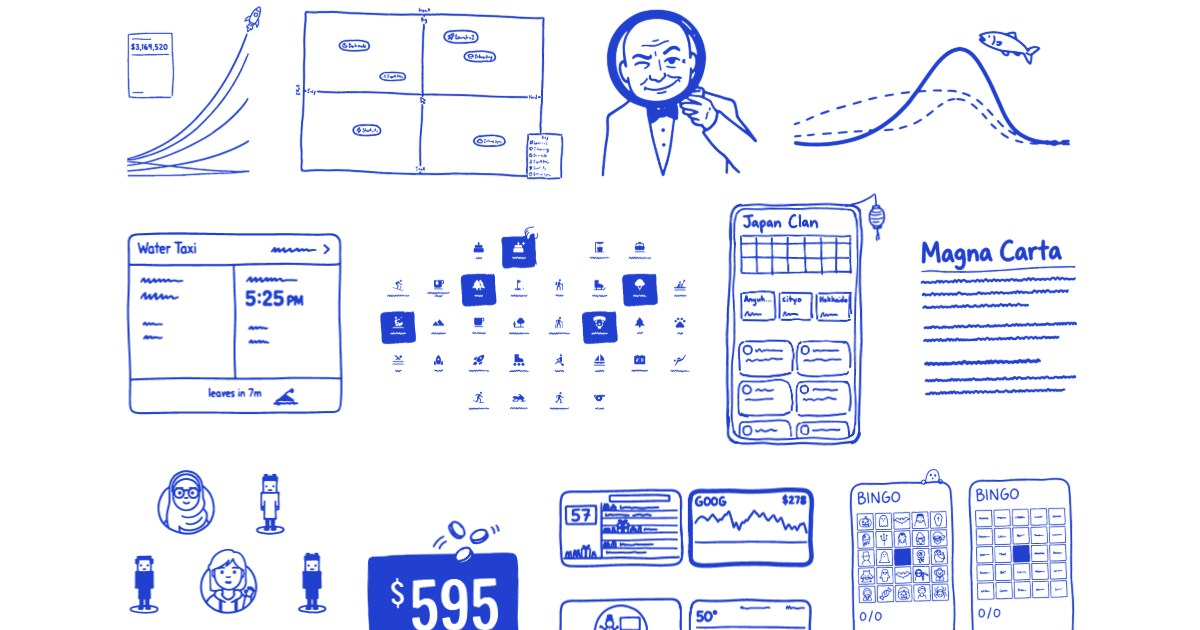
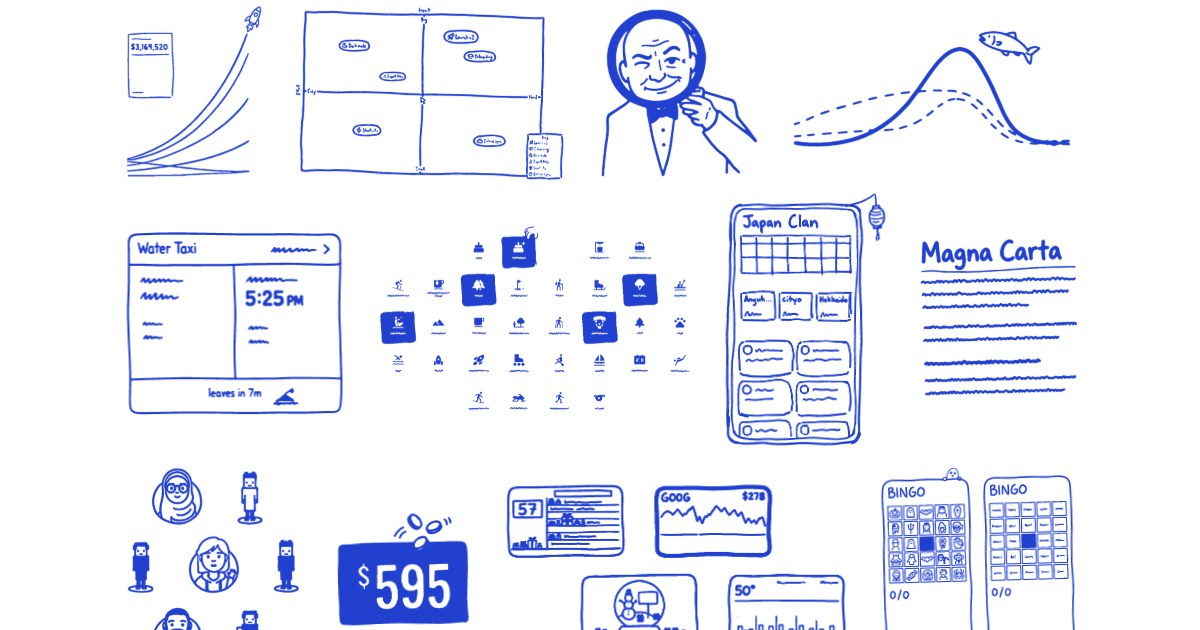
Some things I've made
Built from a private repo by scripts/publish.py. Please don't edit here: each publish replaces this.

Changed region(s): [[0.0925, 0.7238, 0.8942, 1.0]]

diff --git a/assets/sketch/lab/collage.js b/assets/sketch/lab/collage.js
@@ -1,1 +1,1 @@
-window.SKETCH_COLLAGE={"page":0.9118,"solved":true,"items":{"batchicons":{"vid":"H17","box":[16,127,1138,683],"tilt":0,"tier":"anchor","weight":2.3,"hasTitle":false,"cx":43.64,"cy":34.02,"w":30.85,"hit":"M71.2 102.4 28.8 102.4 4.4 81.7 3.3 79.9 -1.4 61.9 -1.7 47.1 0.8 36.0 3.3 29.1 6.0 25.7 30.7 6.1 48.1 -2.9 50.6 -2.9 80.1 4.5 85.4 6.6 99.5 27.5 100.5 36.0 101.4 78.3 100.0 81.7Z","z":3},"bingo":{"vid":"H17","box":[409,42,791,814],"tilt":-1.5,"tier":"hero","weight":1.316,"hasTitle":false,"cx":85.38,"cy":59.72,"w":22.22,"hit":"M76.2 101.9 5.7 101.9 2.2 100.6 -1.1 97.4 -2.0 94.9 -2.4 82.5 -2.0 9.8 -1.1 7.3 2.2 4.1 7.5 2.4 36.6 -2.4 41.4 -2.4 94.3 2.8 97.8 4.1 100.7 6.8 102.0 10.7 102.0 93.6 100.2 97.9 96.9 100.6 92.1 101.5Z","z":2},"canvas":{"vid":"H17","box":[177,115,646,259],"tilt":0,"tier":"mid","weight":1.016,"hasTitle":false,"cx":26.01,"cy":80.92,"w":20.32,"hit":"M66.8 105.4 60.6 103.0 1.0 62.0 -1.7 55.4 -2.6 42.2 -2.6 8.4 -1.7 2.4 0.5 -3.0 2.9 -5.4 94.2 -6.6 98.6 -4.2 101.2 2.4 102.2 9.6 101.7 54.2 79.3 100.6Z","z":14},"firecalc":{"vid":"H06","box":[558,332,606,386],"tilt":0,"tier":"mid","weight":1.003,"hasTitle":false,"cx":89.55,"cy":81.32,"w":13.86,"hit":"M97.9 106.1 0.0 106.1 -4.6 101.1 -5.3 93.3 -0.7 82.8 92.3 -7.2 97.2 -8.3 101.8 -3.3 104.6 10.0 103.9 96.7 103.2 100.0Z","z":15},"fishreports":{"vid":"H17","box":[99,248,690,299],"tilt":0,"tier":"mid","weight":1.19,"hasTitle":false,"cx":82.47,"cy":11.59,"w":28.02,"hit":"M55.1 102.8 2.4 102.0 0.7 100.4 -0.9 96.8 -1.2 76.6 -0.9 74.2 1.0 70.6 67.6 -2.8 79.4 -2.8 88.5 10.1 90.1 13.7 91.5 23.4 100.9 92.7 100.5 97.6 97.9 102.0Z","z":13},"folio":{"vid":"H06","box":[304,0,650,805],"tilt":0,"tier":"mid","weight":1.197,"hasTitle":false,"cx":10.32,"cy":11.95,"w":13.62,"hit":"M42.4 103.2 1.4 103.2 -3.2 100.6 -4.0 22.1 -3.2 14.5 0.0 11.9 11.5 9.6 94.2 -4.4 100.0 -3.8 104.0 0.6 104.0 7.6 96.0 91.9 94.6 98.3 92.1 100.3 84.9 101.5Z","z":5},"hanstaxi":{"vid":"H17","box":[295,176,611,526],"tilt":0,"tier":"mid","weight":1.187,"hasTitle":false,"cx":14.4,"cy":34.53,"w":21.77,"hit":"M91.5 101.3 4.5 101.3 1.3 99.7 -0.2 97.9 -1.6 93.8 -2.0 82.3 -2.5 21.4 -2.0 5.2 -1.1 2.1 1.8 -0.8 9.0 -2.3 94.6 -1.8 97.8 -0.3 99.8 2.1 101.1 6.2 101.6 92.2 100.2 96.9 97.3 100.3Z","z":8},"japanclan":{"vid":"H07","box":[353,7,539,851],"tilt":1,"tier":"mid","weight":1.005,"hasTitle":false,"cx":70.03,"cy":34.11,"w":16.06,"hit":"M54.3 101.7 10.4 101.7 3.0 100.2 -0.9 96.9 -2.1 93.1 -3.4 68.3 -3.4 34.4 -2.1 9.7 0.9 5.4 3.7 3.7 8.5 2.5 92.1 -2.1 96.0 -0.4 101.5 6.2 102.7 8.5 102.7 13.1 89.9 95.0 86.6 98.6 84.1 100.2 80.5 101.0Z","z":6},"krakentix":{"vid":"H17","box":[656,35,433,188],"tilt":0,"tier":"hero","weight":1.484,"hasTitle":false,"cx":49.27,"cy":81.24,"w":20.33,"hit":"M51.9 102.8 3.4 102.8 1.0 100.6 -0.7 96.7 -1.7 91.1 -1.2 26.7 1.9 20.6 6.2 18.3 84.6 -3.9 96.2 -3.9 98.6 -1.7 100.2 2.2 101.2 7.8 101.2 21.1 89.2 95.6 87.0 100.6Z","z":17},"loupe":{"vid":"H17","box":[485,116,541,578],"tilt":-2,"tier":"mid","weight":1.184,"hasTitle":false,"cx":57.64,"cy":11.95,"w":15.79,"hit":"M86.3 102.6 10.6 102.0 0.6 101.5 -3.4 98.8 -4.0 87.2 1.6 24.4 4.0 16.9 8.4 9.9 18.6 1.5 24.8 -1.5 31.7 -3.2 46.0 -2.6 51.6 -0.9 59.0 3.2 68.0 12.8 102.2 77.9 101.6 82.6 90.4 100.0Z","z":10},"made":{"vid":"H17","box":[445,148,310,267],"tilt":-1,"tier":"mid","weight":1.2,"hasTitle":false,"cx":34.64,"cy":60.05,"w":15.93,"hit":"M89.6 101.1 6.7 101.1 3.1 99.6 -0.3 95.0 -1.5 84.3 -1.5 35.0 -0.3 27.9 3.1 23.9 55.8 -1.8 61.3 -1.8 85.9 2.5 89.3 6.4 99.7 27.1 100.9 31.4 100.9 93.6 100.3 95.7 96.9 99.6Z","z":16},"md":{"vid":"H17","box":[24,219,458,469],"tilt":-1.5,"tier":"mid","weight":1.194,"hasTitle":false,"cx":88.73,"cy":33.91,"w":15.5,"hit":"M89.9 101.5 3.2 101.5 -1.6 98.1 -2.8 61.7 -2.8 20.4 -1.6 3.7 -0.3 0.0 1.9 -2.2 81.0 -2.2 91.1 2.8 101.6 14.2 104.7 19.1 104.7 63.6 103.5 88.9 102.8 90.7 93.0 100.3Z","z":11},"peeps":{"vid":"H17","box":[377,201,445,503],"tilt":0,"tier":"hero","weight":1.3,"hasTitle":false,"cx":13.63,"cy":59.72,"w":20.23,"hit":"M52.2 101.1 26.1 101.1 17.9 97.6 13.3 92.7 -1.7 62.4 0.7 39.7 9.9 18.8 14.3 9.8 19.1 3.4 22.7 0.2 27.1 -1.5 67.6 -0.2 74.9 0.6 77.5 3.4 98.3 38.5 101.2 62.4 80.4 97.4 77.8 99.8 74.9 100.6Z","z":12},"quadrant":{"vid":"H17","box":[80,115,1104,696],"tilt":1.5,"tier":"hero","weight":1.5,"hasTitle":false,"cx":33.44,"cy":11.95,"w":26.75,"hit":"M97.1 103.2 4.4 102.6 2.2 101.5 0.2 97.1 -2.4 51.2 -0.5 15.1 0.5 3.5 2.6 0.3 3.6 -0.3 42.0 -3.8 51.8 -3.8 86.9 -0.9 92.0 0.3 93.6 2.9 94.3 7.0 102.0 73.8 101.6 97.7 99.6 102.0Z","z":1},"score":{"vid":"H17","box":[132,66,533,770],"tilt":-2,"tier":"mid","weight":1.011,"hasTitle":false,"cx":8.22,"cy":80.87,"w":9.4,"hit":"M22.9 104.7 15.6 104.7 9.4 103.2 2.6 98.6 0.5 93.5 -7.8 15.1 -6.8 4.3 0.0 -1.1 5.2 -2.5 57.3 -5.4 66.7 -5.4 95.8 0.4 100.5 3.6 105.7 10.8 106.8 16.5 89.1 94.2 82.3 99.6 77.1 101.1Z","z":7},"trmnl":{"vid":"H17","box":[582,93,591,445],"tilt":0,"tier":"mid","weight":1.008,"hasTitle":false,"cx":58.43,"cy":59.77,"w":25.81,"hit":"M93.9 101.3 5.3 101.3 1.9 99.7 -0.2 97.0 -1.3 91.5 -1.3 8.0 0.2 3.0 1.5 1.3 4.2 -0.3 24.6 -1.3 94.7 -1.8 97.7 -0.3 100.2 3.0 100.9 6.0 100.6 94.5 99.8 97.0 97.7 99.7Z","z":9},"moods":{"tier":"mid","weight":1.197,"hasTitle":false,"vid":"H17","box":[105,159,990,543],"cx":71.03,"cy":81.4,"w":17.33,"tilt":0,"hit":"M93.2 105.7 6.2 105.7 1.7 102.6 -2.0 95.9 -3.7 80.4 -3.7 11.3 -2.0 3.1 1.1 -2.6 5.1 -5.7 20.9 -6.7 89.8 -6.7 98.3 -2.6 100.8 2.1 103.1 12.4 103.1 88.7 102.0 94.8 97.7 102.6Z","z":4}},"mobile":{"page":5.6318,"items":{"batchicons":{"cx":50.09,"cy":179.16,"w":82.84,"tilt":3.7,"z":1},"bingo":{"cx":27.89,"cy":364.77,"w":40.75,"tilt":-3.3,"z":4},"canvas":{"cx":47.69,"cy":461.79,"w":76.53,"tilt":-1.3,"z":11},"firecalc":{"cx":57.1,"cy":541.88,"w":66.87,"tilt":-2.8,"z":16},"fishreports":{"cx":53.43,"cy":130.75,"w":80.33,"tilt":-1.4,"z":8},"folio":{"cx":22.76,"cy":26.63,"w":33.52,"tilt":1.7,"z":6},"hanstaxi":{"cx":25.19,"cy":72.11,"w":43.16,"tilt":-1,"z":9},"japanclan":{"cx":76.55,"cy":246.54,"w":33.52,"tilt":2.9,"z":15},"krakentix":{"cx":68.36,"cy":411.03,"w":49.7,"tilt":-1.3,"z":5},"loupe":{"cx":73.97,"cy":83.51,"w":44.34,"tilt":2.6,"z":10},"made":{"cx":25.9,"cy":296.96,"w":41.38,"tilt":-2.2,"z":14},"md":{"cx":28.32,"cy":230.42,"w":39.56,"tilt":-2.3,"z":12},"moods":{"cx":55.71,"cy":498.86,"w":56.81,"tilt":3.6,"z":7},"peeps":{"cx":73.78,"cy":312.6,"w":44.32,"tilt":2,"z":3},"quadrant":{"cx":69.67,"cy":15.84,"w":50.24,"tilt":-3,"z":2},"score":{"cx":21.72,"cy":416.09,"w":33.52,"tilt":3.1,"z":13},"trmnl":{"cx":74.25,"cy":366.04,"w":41.91,"tilt":3,"z":17}}}};
+window.SKETCH_COLLAGE={"page":0.88,"solved":true,"items":{"batchicons":{"vid":"H17","box":[16,127,1138,683],"tilt":0,"tier":"anchor","weight":2.3,"hasTitle":false,"cx":43.64,"cy":34.02,"w":30.85,"hit":"M71.2 102.4 28.8 102.4 4.4 81.7 3.3 79.9 -1.4 61.9 -1.7 47.1 0.8 36.0 3.3 29.1 6.0 25.7 30.7 6.1 48.1 -2.9 50.6 -2.9 80.1 4.5 85.4 6.6 99.5 27.5 100.5 36.0 101.4 78.3 100.0 81.7Z","z":3},"bingo":{"vid":"H17","box":[409,42,791,814],"tilt":-1.5,"tier":"hero","weight":1.316,"hasTitle":false,"cx":86.92,"cy":58.13,"w":19.13,"hit":"M83.7 102.2 4.6 102.2 2.0 101.2 -1.3 98.0 -2.8 94.0 -2.8 10.4 -1.3 6.5 1.5 3.7 5.1 2.2 19.9 -0.2 35.7 -2.7 42.3 -2.7 94.4 2.2 98.5 3.7 100.8 6.0 102.3 9.5 102.8 13.4 102.8 92.5 100.8 98.0 98.0 100.7 95.4 101.7Z","z":2},"canvas":{"vid":"H17","box":[177,115,646,259],"tilt":0,"tier":"mid","weight":1.016,"hasTitle":false,"cx":26.01,"cy":77.74,"w":20.32,"hit":"M66.8 105.4 60.6 103.0 1.0 62.0 -1.7 55.4 -2.6 42.2 -2.6 8.4 -1.7 2.4 0.5 -3.0 2.9 -5.4 94.2 -6.6 98.6 -4.2 101.2 2.4 102.2 9.6 101.7 54.2 79.3 100.6Z","z":14},"firecalc":{"vid":"H06","box":[558,332,606,386],"tilt":0,"tier":"mid","weight":1.003,"hasTitle":false,"cx":89.55,"cy":78.14,"w":13.86,"hit":"M97.9 106.1 0.0 106.1 -4.6 101.1 -5.3 93.3 -0.7 82.8 92.3 -7.2 97.2 -8.3 101.8 -3.3 104.6 10.0 103.9 96.7 103.2 100.0Z","z":15},"fishreports":{"vid":"H17","box":[99,248,690,299],"tilt":0,"tier":"mid","weight":1.19,"hasTitle":false,"cx":82.47,"cy":11.59,"w":28.02,"hit":"M55.1 102.8 2.4 102.0 0.7 100.4 -0.9 96.8 -1.2 76.6 -0.9 74.2 1.0 70.6 67.6 -2.8 79.4 -2.8 88.5 10.1 90.1 13.7 91.5 23.4 100.9 92.7 100.5 97.6 97.9 102.0Z","z":13},"folio":{"vid":"H06","box":[304,0,650,805],"tilt":0,"tier":"mid","weight":1.197,"hasTitle":false,"cx":10.32,"cy":11.95,"w":13.62,"hit":"M42.4 103.2 1.4 103.2 -3.2 100.6 -4.0 22.1 -3.2 14.5 0.0 11.9 11.5 9.6 94.2 -4.4 100.0 -3.8 104.0 0.6 104.0 7.6 96.0 91.9 94.6 98.3 92.1 100.3 84.9 101.5Z","z":5},"hanstaxi":{"vid":"H17","box":[295,176,611,526],"tilt":0,"tier":"mid","weight":1.187,"hasTitle":false,"cx":14.4,"cy":34.53,"w":21.77,"hit":"M91.5 101.3 4.5 101.3 1.3 99.7 -0.2 97.9 -1.6 93.8 -2.0 82.3 -2.5 21.4 -2.0 5.2 -1.1 2.1 1.8 -0.8 9.0 -2.3 94.6 -1.8 97.8 -0.3 99.8 2.1 101.1 6.2 101.6 92.2 100.2 96.9 97.3 100.3Z","z":8},"japanclan":{"vid":"H07","box":[353,7,539,851],"tilt":1,"tier":"mid","weight":1.005,"hasTitle":false,"cx":70.03,"cy":34.11,"w":16.06,"hit":"M54.3 101.7 10.4 101.7 3.0 100.2 -0.9 96.9 -2.1 93.1 -3.4 68.3 -3.4 34.4 -2.1 9.7 0.9 5.4 3.7 3.7 8.5 2.5 92.1 -2.1 96.0 -0.4 101.5 6.2 102.7 8.5 102.7 13.1 89.9 95.0 86.6 98.6 84.1 100.2 80.5 101.0Z","z":6},"krakentix":{"vid":"H17","box":[656,35,433,188],"tilt":0,"tier":"hero","weight":1.484,"hasTitle":false,"cx":49.27,"cy":78.06,"w":20.33,"hit":"M51.9 102.8 3.4 102.8 1.0 100.6 -0.7 96.7 -1.7 91.1 -1.2 26.7 1.9 20.6 6.2 18.3 84.6 -3.9 96.2 -3.9 98.6 -1.7 100.2 2.2 101.2 7.8 101.2 21.1 89.2 95.6 87.0 100.6Z","z":17},"loupe":{"vid":"H17","box":[485,116,541,578],"tilt":-2,"tier":"mid","weight":1.184,"hasTitle":false,"cx":57.64,"cy":11.95,"w":15.79,"hit":"M86.3 102.6 10.6 102.0 0.6 101.5 -3.4 98.8 -4.0 87.2 1.6 24.4 4.0 16.9 8.4 9.9 18.6 1.5 24.8 -1.5 31.7 -3.2 46.0 -2.6 51.6 -0.9 59.0 3.2 68.0 12.8 102.2 77.9 101.6 82.6 90.4 100.0Z","z":10},"made":{"vid":"H17","box":[445,148,310,267],"tilt":-1,"tier":"mid","weight":1.2,"hasTitle":false,"cx":30.72,"cy":58.46,"w":13.71,"hit":"M90.0 102.1 5.7 102.1 2.1 100.4 -1.1 95.9 -2.5 89.3 -2.5 32.2 -1.1 27.3 2.9 22.7 55.7 -2.9 86.4 1.2 89.6 5.0 100.4 26.4 101.8 31.4 101.8 93.4 101.1 95.9 97.1 100.4Z","z":16},"md":{"vid":"H17","box":[24,219,458,469],"tilt":-1.5,"tier":"mid","weight":1.194,"hasTitle":false,"cx":88.73,"cy":33.91,"w":15.5,"hit":"M89.9 101.5 3.2 101.5 -1.6 98.1 -2.8 61.7 -2.8 20.4 -1.6 3.7 -0.3 0.0 1.9 -2.2 81.0 -2.2 91.1 2.8 101.6 14.2 104.7 19.1 104.7 63.6 103.5 88.9 102.8 90.7 93.0 100.3Z","z":11},"peeps":{"vid":"H17","box":[377,201,445,503],"tilt":0,"tier":"hero","weight":1.3,"hasTitle":false,"cx":12.22,"cy":58.13,"w":17.42,"hit":"M52.2 101.7 26.4 101.7 17.4 98.3 14.3 95.5 12.1 92.0 -2.5 62.2 0.3 39.3 12.6 10.9 18.8 2.5 21.9 -0.2 27.0 -2.2 65.2 -1.2 74.7 -0.2 77.2 2.0 99.2 38.3 102.0 62.2 81.2 97.5 78.1 100.2 74.7 101.2Z","z":12},"quadrant":{"vid":"H17","box":[80,115,1104,696],"tilt":1.5,"tier":"hero","weight":1.5,"hasTitle":false,"cx":33.44,"cy":11.95,"w":26.75,"hit":"M97.1 103.2 4.4 102.6 2.2 101.5 0.2 97.1 -2.4 51.2 -0.5 15.1 0.5 3.5 2.6 0.3 3.6 -0.3 42.0 -3.8 51.8 -3.8 86.9 -0.9 92.0 0.3 93.6 2.9 94.3 7.0 102.0 73.8 101.6 97.7 99.6 102.0Z","z":1},"score":{"vid":"H17","box":[132,66,533,770],"tilt":-2,"tier":"mid","weight":1.011,"hasTitle":false,"cx":8.22,"cy":77.69,"w":9.4,"hit":"M22.9 104.7 15.6 104.7 9.4 103.2 2.6 98.6 0.5 93.5 -7.8 15.1 -6.8 4.3 0.0 -1.1 5.2 -2.5 57.3 -5.4 66.7 -5.4 95.8 0.4 100.5 3.6 105.7 10.8 106.8 16.5 89.1 94.2 82.3 99.6 77.1 101.1Z","z":7},"trmnl":{"vid":"H17","box":[277,143,819,404],"tilt":0,"tier":"mid","weight":1.008,"hasTitle":false,"cx":57.46,"cy":58.18,"w":33.92,"hit":"M93.9 102.0 24.5 102.0 22.8 100.9 -0.4 44.4 -1.3 34.5 -1.3 16.4 -1.0 6.4 -0.1 2.3 1.2 -0.3 2.9 -1.5 17.9 -2.6 74.4 -2.6 77.2 -0.9 99.3 52.6 100.7 58.5 100.7 94.7 100.4 96.5 98.6 100.3Z","z":9},"moods":{"tier":"mid","weight":1.197,"hasTitle":false,"vid":"H17","box":[105,159,990,543],"cx":71.03,"cy":78.22,"w":17.33,"tilt":0,"hit":"M93.2 105.7 6.2 105.7 1.7 102.6 -2.0 95.9 -3.7 80.4 -3.7 11.3 -2.0 3.1 1.1 -2.6 5.1 -5.7 20.9 -6.7 89.8 -6.7 98.3 -2.6 100.8 2.1 103.1 12.4 103.1 88.7 102.0 94.8 97.7 102.6Z","z":4}},"mobile":{"page":4.9903,"items":{"batchicons":{"cx":50.45,"cy":175.17,"w":78.01,"tilt":3.7,"z":1},"bingo":{"cx":25.02,"cy":356.37,"w":35,"tilt":-3.3,"z":4},"canvas":{"cx":46.33,"cy":449.54,"w":72.07,"tilt":-1.3,"z":11},"firecalc":{"cx":27.37,"cy":484.58,"w":45.37,"tilt":2.8,"z":17},"fishreports":{"cx":54.33,"cy":129.23,"w":75.64,"tilt":-1.4,"z":8},"folio":{"cx":22.76,"cy":26.63,"w":33.52,"tilt":1.7,"z":6},"hanstaxi":{"cx":25.26,"cy":71.93,"w":42.76,"tilt":-1,"z":9},"japanclan":{"cx":76.07,"cy":241.1,"w":33.52,"tilt":2.9,"z":16},"krakentix":{"cx":68.36,"cy":399.67,"w":49.7,"tilt":-1.3,"z":5},"loupe":{"cx":73.96,"cy":83.23,"w":43.93,"tilt":2.6,"z":10},"made":{"cx":25.9,"cy":291.52,"w":41.38,"tilt":-2.2,"z":14},"md":{"cx":27.64,"cy":223.8,"w":37.25,"tilt":-2.3,"z":12},"moods":{"cx":74.38,"cy":485.6,"w":38.6,"tilt":-3.6,"z":7},"peeps":{"cx":73.78,"cy":307.17,"w":44.32,"tilt":2,"z":3},"quadrant":{"cx":69.67,"cy":15.84,"w":50.24,"tilt":-3,"z":2},"score":{"cx":21.72,"cy":404.74,"w":33.52,"tilt":3.1,"z":13},"trmnl":{"cx":71.38,"cy":355.67,"w":47.66,"tilt":1.7,"z":15}}}};

diff --git a/assets/hero/heroes.js b/assets/hero/heroes.js
@@ -1,1 +1,1 @@
-window.SKETCH_HEROES={"batchicons":{"edge":["#ecf2f7","#ecf2f7"],"demoVideo":"assets/hero/batchicons/demo.mp4","demoPoster":"assets/hero/batchicons/demo.webp","layout":"band","frame":"outlined","media":"still","demo":"loop","aspect":[1600,1200],"bleed":true},"bingo":{"edge":["#ffffff","#ffffff"],"video":"assets/hero/bingo/video.mp4","contained":true,"size":"big","layout":"stage","frame":"none","media":"loop","demo":"readme","aspect":[1600,1200],"topGap":"1.5rem","land":[0.0512,0.0625,0.898,0.898]},"calc":{"edge":["#0d0f13","#0d0f13"],"dark":true,"video":"assets/hero/calc/video.mp4","contained":true,"size":"full","loop":true,"layout":"column","frame":"outlined","media":"loop","demo":"none","aspect":[1600,1200]},"canvas":{"edge":["#232323","#222222"],"dark":true,"video":"assets/hero/canvas/video.mp4","size":"full","bare":true,"nodemo":true,"vis":0.8897,"layout":"column","frame":"bare","media":"loop","demo":"none","aspect":[1600,834],"bleed":true,"land":[0,-0.2225,1,1.4388],"camera":true,"phone":{"video":"assets/hero/canvas/video.phone.mp4","still":"assets/hero/canvas/stage.phone.webp","aspect":[960,1200],"land":[0,0.2,1,0.6]}},"firecalc":{"edge":["#09090b","#09090b"],"dark":true,"video":"assets/hero/firecalc/video.mp4","contained":true,"size":"full","loop":true,"layout":"column","frame":"outlined","media":"loop","demo":"none","aspect":[1600,970],"land":[-0.0036,-0.1083,1.0064,1.2438]},"fishreports":{"edge":["#ffffff","#ffffff"],"video":"assets/hero/fishreports/video.mp4","size":"full","bare":true,"nodemo":true,"layout":"column","frame":"bare","media":"loop","demo":"none","aspect":[1600,728],"bleed":true,"land":[0.0045,-0.0996,0.9905,1.6326],"camera":true,"phone":{"video":"assets/hero/fishreports/video.phone.mp4","still":"assets/hero/fishreports/stage.phone.webp","aspect":[956,728],"land":[-0.0426,-0.0996,1.6564,1.6326]}},"folio":{"edge":["#ffffff","#ffffff"],"video":"assets/hero/folio/video.mp4","contained":true,"size":"full","bare":true,"loop":true,"layout":"column","frame":"bare","media":"loop","demo":"none","aspect":[2400,1200],"cap":"50svh","land":[0.05,-0.1,0.8,1.2],"phone":{"video":"assets/hero/folio/video.phone.mp4","still":"assets/hero/folio/stage.phone.webp","aspect":[1200,942],"land":[-0.3323,-0.1,1.2539,1.2]}},"hanstaxi":{"edge":["#121728","#121728"],"dark":true,"video":"assets/hero/hanstaxi/video.mp4","loop":true,"layout":"band","frame":"outlined","media":"loop","demo":"none","aspect":[1600,1200],"bleed":true,"land":[-0.3742,-0.3326,1.7491,1.7491]},"japanclan":{"edge":["#171719","#171719"],"dark":true,"page":"assets/hero/japanclan/header.html","size":"big","bare":true,"nodemo":true,"layout":"stage","frame":"bare","media":"page","demo":"none","aspect":[1600,1200],"bleed":true,"land":[0.0688,0.0265,0.8801,0.9588]},"krakentix":{"edge":["#020a11","#020a11"],"dark":true,"video":"assets/hero/krakentix/video.mp4","size":"full","bare":true,"nodemo":true,"layout":"column","frame":"bare","media":"loop","demo":"none","aspect":[1600,760],"bleed":true,"land":[0.0276,-0.0148,0.9448,1.4918],"phone":{"video":"assets/hero/krakentix/video.phone.mp4","still":"assets/hero/krakentix/stage.phone.webp","aspect":[1200,722],"land":[-0.098,-0.0148,1.1959,1.4918]}},"loupe":{"edge":["#f1edea","#615f5d"],"video":"assets/hero/loupe/video.mp4","contained":true,"size":"full","layout":"column","frame":"outlined","media":"video","demo":"readme","aspect":[1600,900],"land":[0.0625,0,0.75,1],"phone":{"video":"assets/hero/loupe/video.phone.mp4","still":"assets/hero/loupe/stage.phone.webp","aspect":[896,720],"land":[-0.3393,0,1.0714,1]}},"made":{"edge":["#ffffff","#ffffff"],"video":"assets/hero/made/video.mp4","contained":true,"size":"full","bare":true,"loop":true,"layout":"column","frame":"bare","media":"loop","demo":"none","aspect":[1600,1054],"land":[0,-0.0696,1,1.1385]},"md":{"edge":["#ffffff","#ffffff"],"video":"assets/hero/md/video.mp4","contained":true,"size":"full","bare":true,"loop":true,"layout":"column","frame":"bare","media":"loop","demo":"none","aspect":[1600,708],"land":[0,-0.3465,1,1.6949],"phone":{"video":"assets/hero/md/video.phone.mp4","still":"assets/hero/md/stage.phone.webp","aspect":[1152,708],"land":[0,-0.3465,1.3889,1.6949]}},"moods":{"edge":["#292731","#2a262f"],"dark":true,"video":"assets/hero/moods/video.mp4","loop":true,"layout":"band","frame":"outlined","media":"loop","demo":"none","aspect":[1600,1200],"bleed":true},"odds":{"edge":["#fafafa","#fafafa"],"contained":true,"size":"full","layout":"column","frame":"outlined","media":"still","demo":"readme","aspect":[1600,1200]},"peeps":{"edge":["#fcfafa","#edeff0"],"live":"assets/hero/peeps/band.html","seats":{"s":0.25,"dx":0.333333,"rows":[[0.183333,0.5],[0.5,0],[0.816667,0.5]],"box":[-0.165,0.155],"top":0.1425,"margin":8,"arrow":68,"bg":[135,"#fdfbfb","#ebedee"]},"layout":"band","frame":"outlined","media":"live","demo":"readme","aspect":[1600,1200],"bleed":true,"land":[-0.3333,-0.3333,1.6667,1.6667]},"quadrant":{"edge":["#ffffff","#ffffff"],"video":"assets/hero/quadrant/video.mp4","contained":true,"size":"full","bare":true,"loop":true,"vis":0.9443,"layout":"column","frame":"bare","media":"loop","demo":"none","aspect":[1600,1024],"land":[0,-0.0846,1,1.1707]},"score":{"edge":["#ffffff","#ffffff"],"contained":true,"size":"big","layout":"stage","frame":"none","media":"still","demo":"readme","aspect":[2400,1800],"cap":"52svh","land":[0.0851,-0.0633,0.9067,1.0798]},"scoreboard":{"edge":["#ffffff","#ffffff"],"contained":true,"size":"full","layout":"column","frame":"outlined","media":"still","demo":"readme","aspect":[1600,1200]},"trmnl":{"edge":["#f5f3ef","#f5f3ef"],"layout":"band","frame":"outlined","media":"still","demo":"readme","aspect":[1600,1200],"bleed":true,"bandHeight":"tall"}};
+window.SKETCH_HEROES={"batchicons":{"edge":["#ecf2f7","#ecf2f7"],"demoVideo":"assets/hero/batchicons/demo.mp4","demoPoster":"assets/hero/batchicons/demo.webp","layout":"band","frame":"outlined","media":"still","demo":"loop","aspect":[1600,1200],"bleed":true},"bingo":{"edge":["#ffffff","#ffffff"],"video":"assets/hero/bingo/video.mp4","contained":true,"size":"big","layout":"stage","frame":"none","media":"loop","demo":"readme","aspect":[1600,1200],"topGap":"1.5rem","land":[0.0512,0.0625,0.898,0.898]},"calc":{"edge":["#0d0f13","#0d0f13"],"dark":true,"video":"assets/hero/calc/video.mp4","contained":true,"size":"full","loop":true,"layout":"column","frame":"outlined","media":"loop","demo":"none","aspect":[1600,1200]},"canvas":{"edge":["#232323","#222222"],"dark":true,"video":"assets/hero/canvas/video.mp4","size":"full","bare":true,"nodemo":true,"vis":0.8897,"layout":"column","frame":"bare","media":"loop","demo":"none","aspect":[1600,834],"bleed":true,"land":[0,-0.2225,1,1.4388],"camera":true,"phone":{"video":"assets/hero/canvas/video.phone.mp4","still":"assets/hero/canvas/stage.phone.webp","aspect":[960,1200],"land":[0,0.2,1,0.6]}},"firecalc":{"edge":["#09090b","#09090b"],"dark":true,"video":"assets/hero/firecalc/video.mp4","contained":true,"size":"full","loop":true,"layout":"column","frame":"outlined","media":"loop","demo":"none","aspect":[1600,970],"land":[-0.0036,-0.1083,1.0064,1.2438]},"fishreports":{"edge":["#ffffff","#ffffff"],"video":"assets/hero/fishreports/video.mp4","size":"full","bare":true,"nodemo":true,"layout":"column","frame":"bare","media":"loop","demo":"none","aspect":[1600,728],"bleed":true,"land":[0.0045,-0.0996,0.9905,1.6326],"camera":true,"phone":{"video":"assets/hero/fishreports/video.phone.mp4","still":"assets/hero/fishreports/stage.phone.webp","aspect":[956,728],"land":[-0.0426,-0.0996,1.6564,1.6326]}},"folio":{"edge":["#ffffff","#ffffff"],"video":"assets/hero/folio/video.mp4","contained":true,"size":"full","bare":true,"loop":true,"layout":"column","frame":"bare","media":"loop","demo":"none","aspect":[2400,1200],"cap":"50svh","land":[0.05,-0.1,0.8,1.2],"phone":{"video":"assets/hero/folio/video.phone.mp4","still":"assets/hero/folio/stage.phone.webp","aspect":[1200,942],"land":[-0.3323,-0.1,1.2539,1.2]}},"hanstaxi":{"edge":["#121728","#121728"],"dark":true,"video":"assets/hero/hanstaxi/video.mp4","loop":true,"layout":"band","frame":"outlined","media":"loop","demo":"none","aspect":[1600,1200],"bleed":true,"land":[-0.3742,-0.3326,1.7491,1.7491]},"japanclan":{"edge":["#171719","#171719"],"dark":true,"page":"assets/hero/japanclan/header.html","size":"big","bare":true,"nodemo":true,"layout":"stage","frame":"bare","media":"page","demo":"none","aspect":[1600,1200],"bleed":true,"land":[0.0688,0.0265,0.8801,0.9588]},"krakentix":{"edge":["#020a11","#020a11"],"dark":true,"video":"assets/hero/krakentix/video.mp4","size":"full","bare":true,"nodemo":true,"layout":"column","frame":"bare","media":"loop","demo":"none","aspect":[1600,760],"bleed":true,"land":[0.0276,-0.0148,0.9448,1.4918],"phone":{"video":"assets/hero/krakentix/video.phone.mp4","still":"assets/hero/krakentix/stage.phone.webp","aspect":[1200,722],"land":[-0.098,-0.0148,1.1959,1.4918]}},"loupe":{"edge":["#f1edea","#615f5d"],"video":"assets/hero/loupe/video.mp4","contained":true,"size":"full","layout":"column","frame":"outlined","media":"video","demo":"readme","aspect":[1600,900],"land":[0.0625,0,0.75,1],"phone":{"video":"assets/hero/loupe/video.phone.mp4","still":"assets/hero/loupe/stage.phone.webp","aspect":[896,720],"land":[-0.3393,0,1.0714,1]}},"made":{"edge":["#ffffff","#ffffff"],"video":"assets/hero/made/video.mp4","contained":true,"size":"full","bare":true,"loop":true,"layout":"column","frame":"bare","media":"loop","demo":"none","aspect":[1600,1054],"land":[0,-0.0696,1,1.1385]},"md":{"edge":["#ffffff","#ffffff"],"video":"assets/hero/md/video.mp4","contained":true,"size":"full","bare":true,"loop":true,"layout":"column","frame":"bare","media":"loop","demo":"none","aspect":[1600,708],"land":[0,-0.3465,1,1.6949],"phone":{"video":"assets/hero/md/video.phone.mp4","still":"assets/hero/md/stage.phone.webp","aspect":[1152,708],"land":[0,-0.3465,1.3889,1.6949]}},"moods":{"edge":["#292731","#2a262f"],"dark":true,"video":"assets/hero/moods/video.mp4","loop":true,"layout":"band","frame":"outlined","media":"loop","demo":"none","aspect":[1600,1200],"bleed":true},"odds":{"edge":["#fafafa","#fafafa"],"contained":true,"size":"full","layout":"column","frame":"outlined","media":"still","demo":"readme","aspect":[1600,1200]},"peeps":{"edge":["#fcfafa","#edeff0"],"live":"assets/hero/peeps/band.html","seats":{"s":0.25,"dx":0.333333,"rows":[[0.183333,0.5],[0.5,0],[0.816667,0.5]],"box":[-0.165,0.155],"top":0.1425,"margin":8,"arrow":68,"bg":[135,"#fdfbfb","#ebedee"]},"layout":"band","frame":"outlined","media":"live","demo":"readme","aspect":[1600,1200],"bleed":true,"land":[-0.3333,-0.3333,1.6667,1.6667]},"quadrant":{"edge":["#ffffff","#ffffff"],"video":"assets/hero/quadrant/video.mp4","contained":true,"size":"full","bare":true,"loop":true,"vis":0.9443,"layout":"column","frame":"bare","media":"loop","demo":"none","aspect":[1600,1024],"land":[0,-0.0846,1,1.1707]},"score":{"edge":["#ffffff","#ffffff"],"contained":true,"size":"big","layout":"stage","frame":"none","media":"still","demo":"readme","aspect":[2400,1800],"cap":"52svh","land":[0.0851,-0.0633,0.9067,1.0798]},"scoreboard":{"edge":["#ffffff","#ffffff"],"contained":true,"size":"full","layout":"column","frame":"outlined","media":"still","demo":"readme","aspect":[1600,1200]},"trmnl":{"edge":["#eae8e4","#e0deda"],"layout":"band","frame":"outlined","media":"still","demo":"readme","aspect":[1600,1200],"bleed":true,"bandHeight":"tall","land":[-0.1818,-0.1818,1.3636,1.3636]}};

diff --git a/assets/sketch/lab/manifest.js b/assets/sketch/lab/manifest.js
@@ -1,1 +1,1 @@
-window.SKETCH_LAB={"projects":["quadrant","peeps","batchicons"],"variants":{"H06":{"view":"both","name":"H06","desc":"","items":{"folio":{"pid":"folio","align":{"ok":true,"cc_before":0.821,"dx":-0.4,"dy":1.5,"sx":1.002,"sy":0.993,"elements_moved":[{"box":[2,250,113,58],"shift":[-2,-1],"score":0.82},{"box":[2,317,116,56],"shift":[-2,-1],"score":0.8},{"box":[3,385,113,57],"shift":[-3,-2],"score":0.86}],"elements_already_aligned":2,"cc_after":0.826},"merged_from":["H04","H05"],"erase_aligned":true},"firecalc":{"pid":"firecalc","align":{"ok":true,"cc_before":0.6,"dx":2.6,"dy":1.6,"sx":0.999,"sy":1,"elements_moved":[],"elements_already_aligned":1,"cc_after":0.608},"merged_from":["H04","H05"],"erase_aligned":true}}},"H07":{"view":"both","name":"H07","desc":"","items":{"japanclan":{"pid":"japanclan","align":{"ok":true,"method":"phone outline fit","sx":0.897,"sy":0.956}}}},"H17":{"view":"both","name":"H17","desc":"","items":{"peeps":{"pid":"peeps","align":{"ok":true,"cc_before":0.883,"dx":0.9,"dy":-1.1,"sx":1,"sy":1.004,"elements_moved":[],"elements_already_aligned":21,"cc_after":0.889,"score":0,"used":"aligned"},"from":"H25"},"quadrant":{"pid":"quadrant","align":{"ok":true,"cc_before":0.949,"dx":1.9,"dy":1.6,"sx":1.001,"sy":0.997,"elements_moved":[],"elements_already_aligned":6,"cc_after":0.955,"score":0,"used":"raw"},"from":"H22"},"batchicons":{"pid":"batchicons","secs":7.7,"align":{"ok":true,"cc_before":0.842,"dx":0.9,"dy":-2.1,"sx":1,"sy":1.005,"elements_moved":[{"box":[888,724,291,86],"shift":[6,-2],"score":0.57}],"elements_already_aligned":37,"cc_after":0.849},"from":"R02"},"canvas":{"pid":"canvas","align":{"ok":true,"cc_before":0.356,"dx":66.8,"dy":-1.1,"sx":0.934,"sy":1.006,"elements_moved":[],"elements_already_aligned":4,"cc_after":0.362,"score":0.795,"used":"raw"},"from":"H22"},"md":{"pid":"md","align":{"ok":true,"cc_before":0.889,"dx":-12.5,"dy":0,"sx":1.005,"sy":1.001,"elements_moved":[{"box":[29,402,329,34],"shift":[-2,2],"score":0.89},{"box":[25,562,358,38],"shift":[1,2],"score":0.8}],"elements_already_aligned":5,"cc_after":0.89,"score":0.1,"used":"raw"},"from":"H22"},"loupe":{"pid":"loupe","align":{"ok":true,"cc_before":0.446,"dx":14,"dy":-10.9,"sx":1.014,"sy":1.031,"elements_moved":[{"box":[101,327,193,50],"shift":[2,3],"score":0.72},{"box":[104,368,190,51],"shift":[4,-1],"score":0.75},{"box":[108,425,195,52],"shift":[5,4],"score":0.59}],"elements_already_aligned":1,"cc_after":0.46,"score":0.365,"used":"raw"},"from":"H18"},"hanstaxi":{"pid":"hanstaxi","align":{"ok":true,"cc_before":0.7,"dx":-2.4,"dy":7.1,"sx":1.004,"sy":0.995,"elements_moved":[{"box":[688,212,183,47],"shift":[-1,-2],"score":0.75},{"box":[329,340,128,43],"shift":[-3,-2],"score":0.81},{"box":[624,435,78,33],"shift":[-1,36],"score":0.91},{"box":[625,473,80,32],"shift":[-2,-2],"score":0.92}],"elements_already_aligned":5,"cc_after":0.721,"score":0,"used":"raw"},"from":"H19"},"fishreports":{"pid":"fishreports","align":{"ok":true,"cc_before":0.569,"dx":3.3,"dy":4.7,"sx":1,"sy":0.991,"elements_moved":[{"box":[78,75,282,34],"shift":[-2,5],"score":0.94},{"box":[76,114,1015,79],"shift":[-24,-14],"score":0.44},{"box":[77,193,140,59],"shift":[-10,16],"score":0.53},{"box":[770,226,240,33],"shift":[0,4],"score":0.8},{"box":[796,265,331,106],"shift":[1,4],"score":0.43},{"box":[796,374,331,182],"shift":[0,3],"score":0.38},{"box":[347,653,74,33],"shift":[1,-2],"score":0.95},{"box":[78,755,47,61],"shift":[0,-3],"score":0.91},{"box":[602,754,50,71],"shift":[-2,-2],"score":0.84}],"elements_already_aligned":7,"cc_after":0.588},"merged_from":["H04","H05"],"erase_aligned":true,"from":"H06"},"bingo":{"pid":"bingo","align":{"ok":true,"cc_before":0.661,"dx":4.1,"dy":3.7,"sx":0.996,"sy":0.994,"elements_moved":[{"box":[134,297,104,38],"shift":[-11,0],"score":0.83}],"elements_already_aligned":3,"cc_after":0.667,"score":1.049,"used":"raw"},"from":"H20"},"krakentix":{"pid":"krakentix","from":"H23"},"trmnl":{"pid":"trmnl","align":{"ok":true,"cc_before":0.648,"dx":-0.4,"dy":-1.4,"sx":1.002,"sy":1.004,"elements_moved":[{"box":[8,43,136,53],"shift":[-3,-3],"score":0.86}],"elements_already_aligned":4,"cc_after":0.645,"score":0.547,"used":"raw"},"from":"H20"},"score":{"pid":"score","align":{"ok":true,"cc_before":0.784,"dx":1.2,"dy":0.5,"sx":1,"sy":1.002,"elements_moved":[],"elements_already_aligned":2,"cc_after":0.794,"score":0.137,"used":"raw"},"from":"H20"},"made":{"pid":"made","align":{"ok":true,"cc_before":0.688,"dx":1.2,"dy":2.8,"sx":1.002,"sy":1,"elements_moved":[{"box":[20,110,1157,38],"shift":[2,6],"score":0.53},{"box":[23,698,1153,130],"shift":[-1,2],"score":0.69}],"elements_already_aligned":2,"cc_after":0.681,"score":0.279,"used":"raw"},"from":"H21"},"moods":{"pid":"moods","align":{"ok":true,"cc_before":0.456,"dx":8.4,"dy":15.5,"sx":0.986,"sy":0.965,"elements_moved":[{"box":[155,209,183,46],"shift":[-13,1],"score":0.61},{"box":[855,256,79,95],"shift":[3,-1],"score":0.72},{"box":[972,270,63,69],"shift":[4,-2],"score":0.67},{"box":[557,528,378,114],"shift":[-36,-1],"score":0.61},{"box":[951,555,100,101],"shift":[4,-1],"score":0.56}],"elements_already_aligned":5,"cc_after":0.609,"score":0.117,"used":"aligned","box":[119,190,1086,710],"scale":[0.9824,0.9615]},"from":"H24"}}}},"rev":775666690};
+window.SKETCH_LAB={"projects":["quadrant","peeps","batchicons"],"variants":{"H06":{"view":"both","name":"H06","desc":"","items":{"folio":{"pid":"folio","align":{"ok":true,"cc_before":0.821,"dx":-0.4,"dy":1.5,"sx":1.002,"sy":0.993,"elements_moved":[{"box":[2,250,113,58],"shift":[-2,-1],"score":0.82},{"box":[2,317,116,56],"shift":[-2,-1],"score":0.8},{"box":[3,385,113,57],"shift":[-3,-2],"score":0.86}],"elements_already_aligned":2,"cc_after":0.826},"merged_from":["H04","H05"],"erase_aligned":true},"firecalc":{"pid":"firecalc","align":{"ok":true,"cc_before":0.6,"dx":2.6,"dy":1.6,"sx":0.999,"sy":1,"elements_moved":[],"elements_already_aligned":1,"cc_after":0.608},"merged_from":["H04","H05"],"erase_aligned":true}}},"H07":{"view":"both","name":"H07","desc":"","items":{"japanclan":{"pid":"japanclan","align":{"ok":true,"method":"phone outline fit","sx":0.897,"sy":0.956}}}},"H17":{"view":"both","name":"H17","desc":"","items":{"peeps":{"pid":"peeps","align":{"ok":true,"cc_before":0.883,"dx":0.9,"dy":-1.1,"sx":1,"sy":1.004,"elements_moved":[],"elements_already_aligned":21,"cc_after":0.889,"score":0,"used":"aligned"},"from":"H25"},"quadrant":{"pid":"quadrant","align":{"ok":true,"cc_before":0.949,"dx":1.9,"dy":1.6,"sx":1.001,"sy":0.997,"elements_moved":[],"elements_already_aligned":6,"cc_after":0.955,"score":0,"used":"raw"},"from":"H22"},"batchicons":{"pid":"batchicons","secs":7.7,"align":{"ok":true,"cc_before":0.842,"dx":0.9,"dy":-2.1,"sx":1,"sy":1.005,"elements_moved":[{"box":[888,724,291,86],"shift":[6,-2],"score":0.57}],"elements_already_aligned":37,"cc_after":0.849},"from":"R02"},"canvas":{"pid":"canvas","align":{"ok":true,"cc_before":0.356,"dx":66.8,"dy":-1.1,"sx":0.934,"sy":1.006,"elements_moved":[],"elements_already_aligned":4,"cc_after":0.362,"score":0.795,"used":"raw"},"from":"H22"},"md":{"pid":"md","align":{"ok":true,"cc_before":0.889,"dx":-12.5,"dy":0,"sx":1.005,"sy":1.001,"elements_moved":[{"box":[29,402,329,34],"shift":[-2,2],"score":0.89},{"box":[25,562,358,38],"shift":[1,2],"score":0.8}],"elements_already_aligned":5,"cc_after":0.89,"score":0.1,"used":"raw"},"from":"H22"},"loupe":{"pid":"loupe","align":{"ok":true,"cc_before":0.446,"dx":14,"dy":-10.9,"sx":1.014,"sy":1.031,"elements_moved":[{"box":[101,327,193,50],"shift":[2,3],"score":0.72},{"box":[104,368,190,51],"shift":[4,-1],"score":0.75},{"box":[108,425,195,52],"shift":[5,4],"score":0.59}],"elements_already_aligned":1,"cc_after":0.46,"score":0.365,"used":"raw"},"from":"H18"},"hanstaxi":{"pid":"hanstaxi","align":{"ok":true,"cc_before":0.7,"dx":-2.4,"dy":7.1,"sx":1.004,"sy":0.995,"elements_moved":[{"box":[688,212,183,47],"shift":[-1,-2],"score":0.75},{"box":[329,340,128,43],"shift":[-3,-2],"score":0.81},{"box":[624,435,78,33],"shift":[-1,36],"score":0.91},{"box":[625,473,80,32],"shift":[-2,-2],"score":0.92}],"elements_already_aligned":5,"cc_after":0.721,"score":0,"used":"raw"},"from":"H19"},"fishreports":{"pid":"fishreports","align":{"ok":true,"cc_before":0.569,"dx":3.3,"dy":4.7,"sx":1,"sy":0.991,"elements_moved":[{"box":[78,75,282,34],"shift":[-2,5],"score":0.94},{"box":[76,114,1015,79],"shift":[-24,-14],"score":0.44},{"box":[77,193,140,59],"shift":[-10,16],"score":0.53},{"box":[770,226,240,33],"shift":[0,4],"score":0.8},{"box":[796,265,331,106],"shift":[1,4],"score":0.43},{"box":[796,374,331,182],"shift":[0,3],"score":0.38},{"box":[347,653,74,33],"shift":[1,-2],"score":0.95},{"box":[78,755,47,61],"shift":[0,-3],"score":0.91},{"box":[602,754,50,71],"shift":[-2,-2],"score":0.84}],"elements_already_aligned":7,"cc_after":0.588},"merged_from":["H04","H05"],"erase_aligned":true,"from":"H06"},"bingo":{"pid":"bingo","align":{"ok":true,"cc_before":0.661,"dx":4.1,"dy":3.7,"sx":0.996,"sy":0.994,"elements_moved":[{"box":[134,297,104,38],"shift":[-11,0],"score":0.83}],"elements_already_aligned":3,"cc_after":0.667,"score":1.049,"used":"raw"},"from":"H20"},"krakentix":{"pid":"krakentix","from":"H23"},"trmnl":{"pid":"trmnl","align":{"ok":true,"cc_before":0.648,"dx":-0.4,"dy":-1.4,"sx":1.002,"sy":1.004,"elements_moved":[{"box":[8,43,136,53],"shift":[-3,-3],"score":0.86}],"elements_already_aligned":4,"cc_after":0.645,"score":0.547,"used":"raw"},"from":"H20"},"score":{"pid":"score","align":{"ok":true,"cc_before":0.784,"dx":1.2,"dy":0.5,"sx":1,"sy":1.002,"elements_moved":[],"elements_already_aligned":2,"cc_after":0.794,"score":0.137,"used":"raw"},"from":"H20"},"made":{"pid":"made","align":{"ok":true,"cc_before":0.688,"dx":1.2,"dy":2.8,"sx":1.002,"sy":1,"elements_moved":[{"box":[20,110,1157,38],"shift":[2,6],"score":0.53},{"box":[23,698,1153,130],"shift":[-1,2],"score":0.69}],"elements_already_aligned":2,"cc_after":0.681,"score":0.279,"used":"raw"},"from":"H21"},"moods":{"pid":"moods","align":{"ok":true,"cc_before":0.456,"dx":8.4,"dy":15.5,"sx":0.986,"sy":0.965,"elements_moved":[{"box":[155,209,183,46],"shift":[-13,1],"score":0.61},{"box":[855,256,79,95],"shift":[3,-1],"score":0.72},{"box":[972,270,63,69],"shift":[4,-2],"score":0.67},{"box":[557,528,378,114],"shift":[-36,-1],"score":0.61},{"box":[951,555,100,101],"shift":[4,-1],"score":0.56}],"elements_already_aligned":5,"cc_after":0.609,"score":0.117,"used":"aligned","box":[119,190,1086,710],"scale":[0.9824,0.9615]},"from":"H24"}}}},"rev":2674613981};

diff --git a/index.html b/index.html
@@ -56,18 +56,18 @@
   <script defer src="https://unpkg.com/react-dom@18.3.1/umd/react-dom.production.min.js" crossorigin></script>
 
   
-  <script defer src="data.js?v=1794686643"></script>
-  <script defer src="readmes.js?v=1794686643"></script>
-  <script defer src="assets/motion.js?v=1794686643"></script>
-  <script defer src="assets/sketch/lab/manifest.js?v=1794686643"></script>
-  <script defer src="assets/sketch/lab/frame.js?v=1794686643"></script>
-  <script defer src="assets/sketch/lab/focus.js?v=1794686643"></script>
-  <script defer src="assets/sketch/lab/collage.js?v=1794686643"></script>
-  <script defer src="assets/hero/heroes.js?v=1794686643"></script>
-  <script defer src="assets/hand/signature-pen.js?v=1794686643"></script>
-  <script defer src="assets/sketch/lab/reveal-shader.js?v=1794686643"></script>
-  <script defer src="assets/sketch/lab/_titles/titles.js?v=1794686643"></script>
-  <script defer src="app.js?v=1794686643"></script>
+  <script defer src="data.js?v=1794689118"></script>
+  <script defer src="readmes.js?v=1794689118"></script>
+  <script defer src="assets/motion.js?v=1794689118"></script>
+  <script defer src="assets/sketch/lab/manifest.js?v=1794689118"></script>
+  <script defer src="assets/sketch/lab/frame.js?v=1794689118"></script>
+  <script defer src="assets/sketch/lab/focus.js?v=1794689118"></script>
+  <script defer src="assets/sketch/lab/collage.js?v=1794689118"></script>
+  <script defer src="assets/hero/heroes.js?v=1794689118"></script>
+  <script defer src="assets/hand/signature-pen.js?v=1794689118"></script>
+  <script defer src="assets/sketch/lab/reveal-shader.js?v=1794689118"></script>
+  <script defer src="assets/sketch/lab/_titles/titles.js?v=1794689118"></script>
+  <script defer src="app.js?v=1794689118"></script>
   <style>
 :root {
 --c-white: #ffffff;
